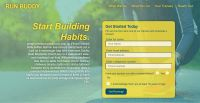
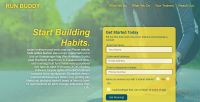
add links to my work section images

diff --git a/index.html b/index.html
@@ -39,7 +39,7 @@
 				<p>
 					I am words words words words words words words words words
 					words words words words words words words words words words words
-					words words words words words words words words words 
+					words words words words words words words words 
 				</p>
 			</div>
 
@@ -56,33 +56,50 @@
 			</div>
 			<div class="workcontainer">
 				<article>
-					<img src="./assets/images/run-buddy.jpg" alt="screenshot of run-buddy website"/>
-					<h3>Run-Buddy</h3>
-					<p>
-						HTML/CSS
-					</p>
+					<a href="https://cabosw.github.io/run-buddy/">
+						<img src="./assets/images/run-buddy.jpg" alt="screenshot of run-buddy website"/>
+					</a>
+					<div class="caption">
+						<h3>Run-Buddy</h3>
+						<p>
+							HTML/CSS
+						</p>
+					</div>	
 				</article>
 
 				<article>
-					<img src="./assets/images/robot-gladiators.jpg" alt="image of robots fighting"/>
-					<h3>Robot Gladiators</h3>
-					<p>
-						JAVASCRIPT/HTML
-					</p>
+					<a href="https://cabosw.github.io/robot-gladiators/">
+						<img src="./assets/images/robot-gladiators.jpg" alt="image of robots fighting"/>
+					</a>
+					<div class="caption">
+						
+						<h3>Robot Gladiators</h3>
+						<p>
+							JAVASCRIPT/HTML
+						</p>
+					</div>	
 				</article>
 				<article>
-					<img src="./assets/images/calculator.jpg" alt="zoomed in image of a calculator"/>
-					<h3>Calculator</h3>
-					<p>
-						JAVASCRIPT
-					</p>
+					<a href="https://github.com/">
+						<img src="./assets/images/calculator.jpg" alt="zoomed in image of a calculator"/>
+					</a>
+						<div class="caption">
+						<h3>Calculator</h3>
+						<p>
+							JAVASCRIPT
+						</p>
+					</div>	
 				</article>
 				<article>
-					<img src="./assets/images/password-generator.jpg" alt="image with the word password"/>
-					<h3>Password Generator</h3>
-					<p>
-						JAVASCRIPT
-					</p>
+					<a href="https://github.com/">
+						<img src="./assets/images/password-generator.jpg" alt="image with the word password"/>
+					</a>
+						<div class="caption">
+						<h3>Password Generator</h3>
+						<p>
+							JAVASCRIPT
+						</p>
+					</div>	
 				</article>
 			</div>
 		</section>

diff --git a/assets/css/style.css b/assets/css/style.css
@@ -53,6 +53,7 @@ header nav ul li a {
 
 /* SECTION STYLE START */
 section {
+	background-color:powderblue;
 	background-size: cover;
 	background-position: 80%;
 	display: flex;
@@ -65,17 +66,20 @@ section {
 
 .workcontainer {
 	display:flex;
-	justify-content:space-between;
 	flex-wrap: wrap;
 
 }
 
 article {
+	margin-bottom: 10px;
+	margin-right: 5px;
+}
+
+.caption {
 	background-image: url('../images/hero.jpg');
 	background-size: cover;
 	background-position: 80%;
 	border: 2px solid black;
-	margin-bottom: 10px;
 }
 
 .section-title {
@@ -92,7 +96,10 @@ article {
 /* CONTACT ME SECTION STYLE START */
 .container nav ul {
 	list-style: none;
-	display:flex;
+	display: flex;
+	flex-wrap:wrap;
+	align-items:center;
+	justify-content:space-between;
 }
 
 .container nav ul li {
